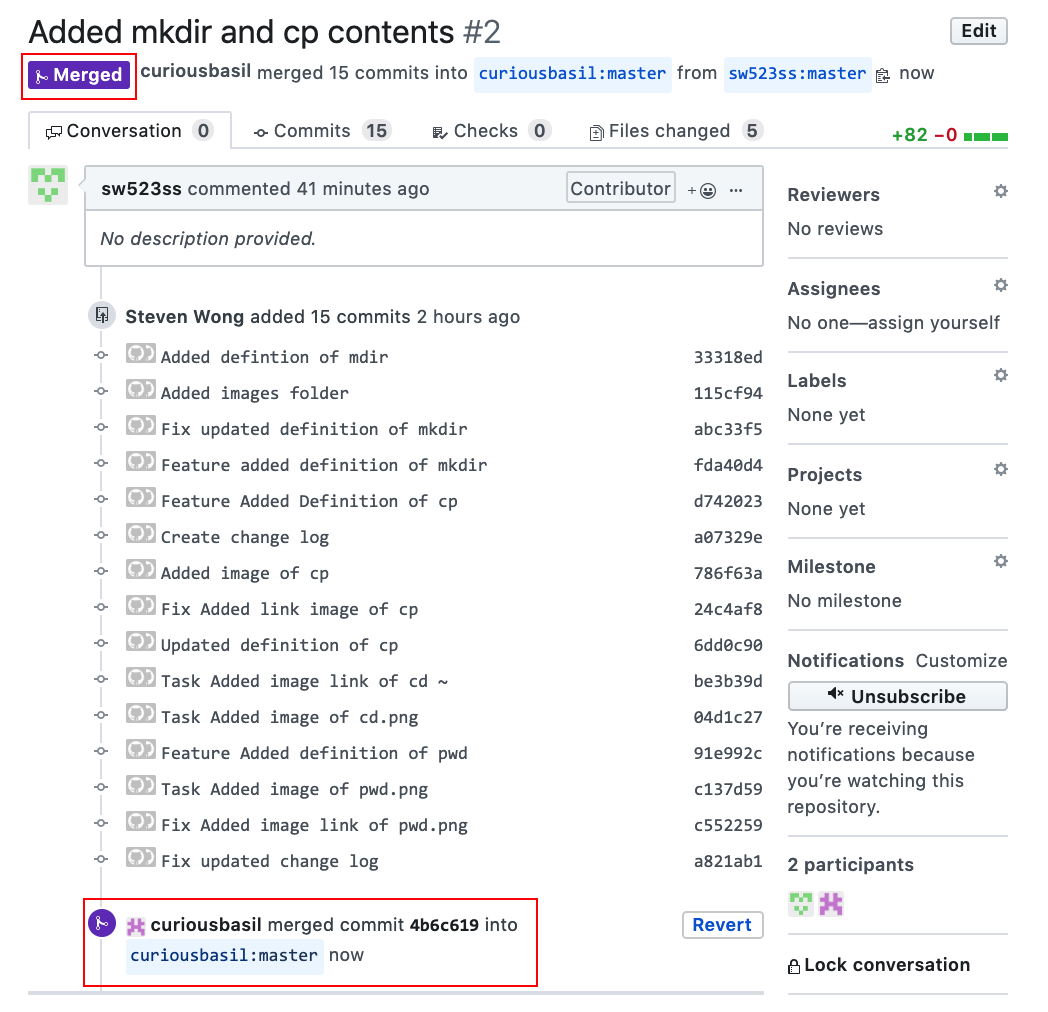
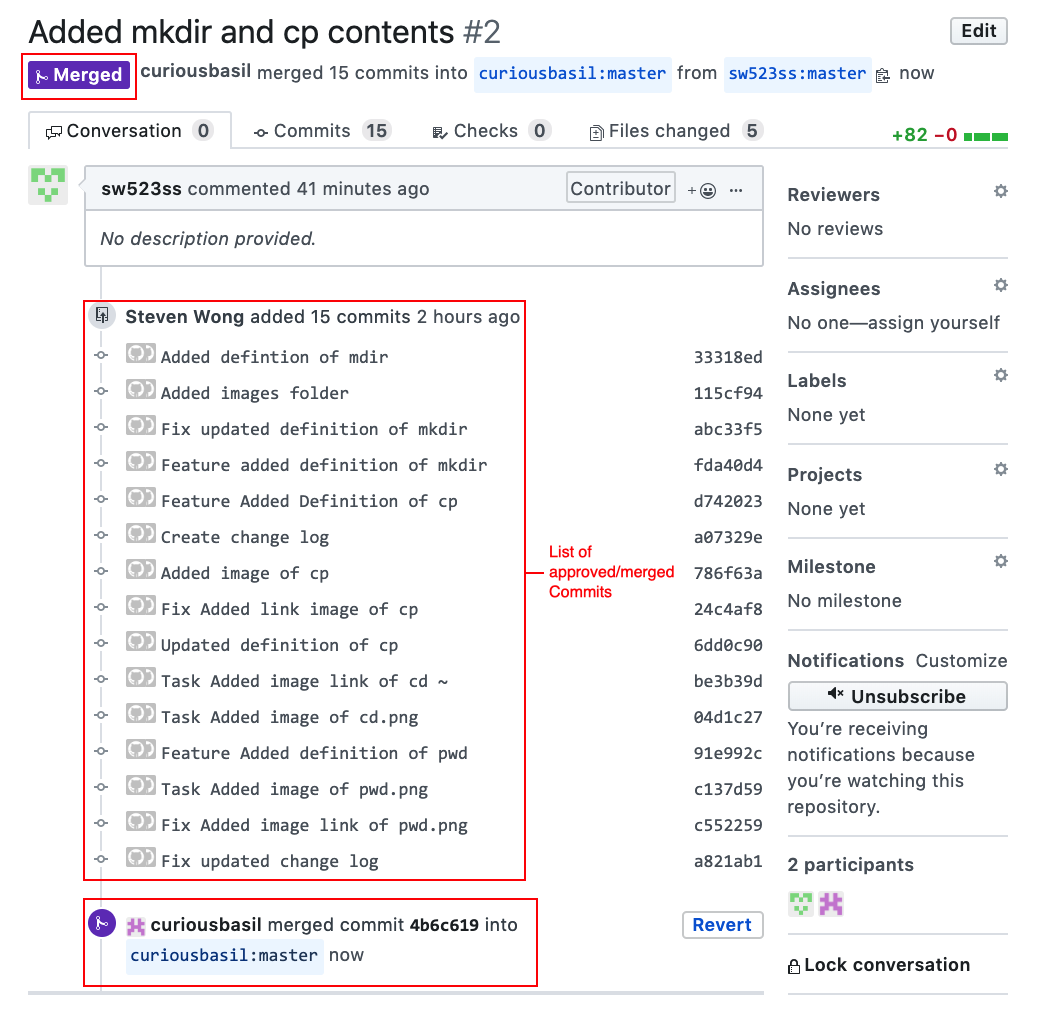
Fix: Adjusted images in Merge section and marked Changelog

Changed region(s): [[0.5191, 0.5208, 0.6412, 0.6126]]

diff --git a/gitflow.md b/gitflow.md
@@ -182,7 +182,7 @@ This Shows a pull request page after merge is approved:
 - [x] Fork ~Faisal
 - [x] Branch
 - [x] Commit
-- [ ] Merge
+- [x] Merge
 - [ ] Checkout
 - [ ] Push
 - [ ] Pull
